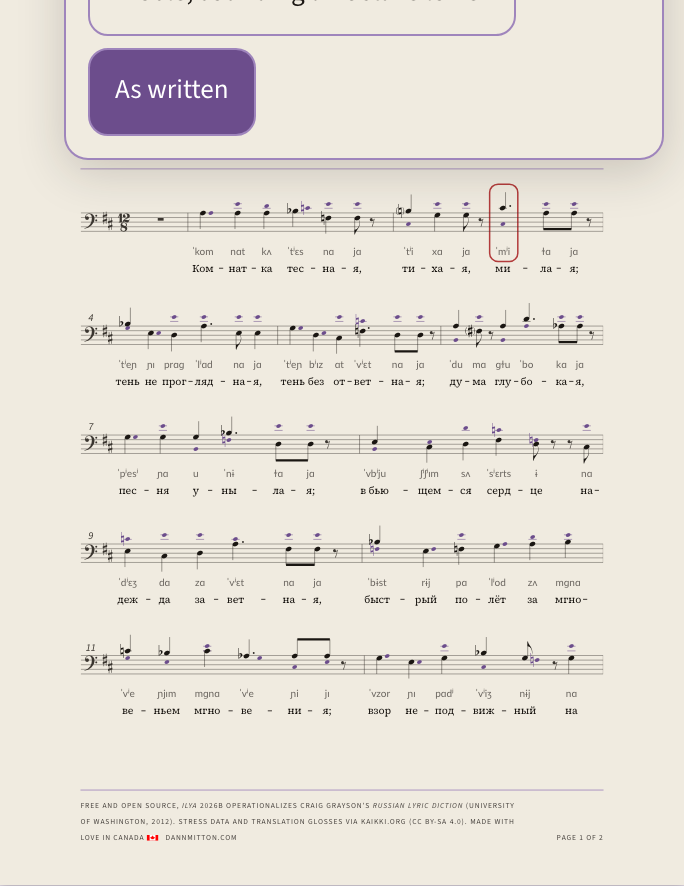
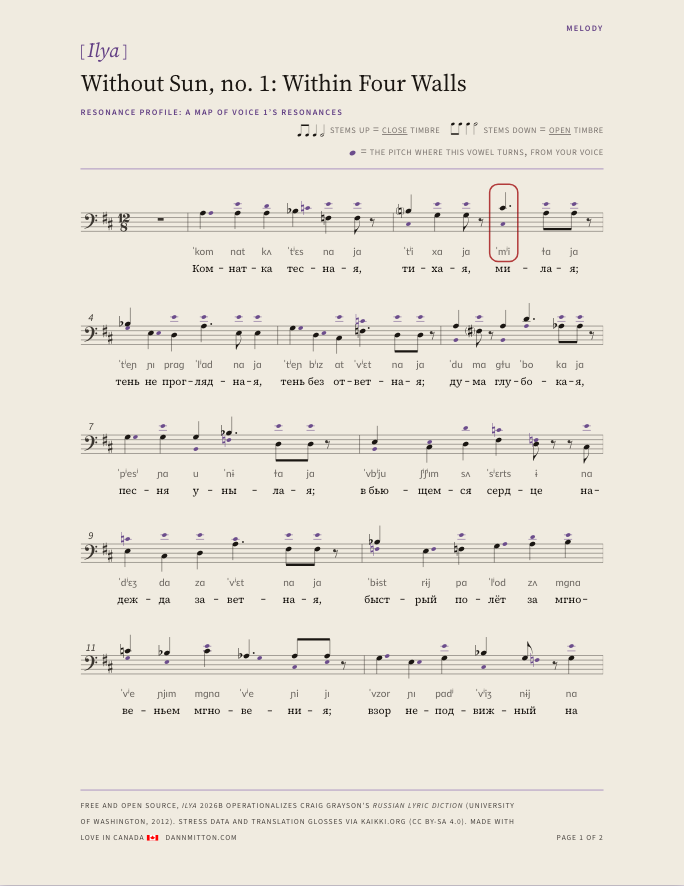
Lane 80: review amendments (report corrections, retaken and added pictures, full Playwright run)
Report: 16 control jobs, the forty-page text's fifth line and its mechanism, the
credit sentence re-break and its typography, ten items in section 10, fifteen
files carrying a fixture name. Pictures: MELODY page 1 and 2 retaken with the
"Voice line as written" chip dismissed (before from commit A's tree), Tchaikovsky
INSIGHTS pages 2 and 3 and one French page added. Both Playwright projects run in
full; seven failures listed with file and line and checked against commit A.

Changed region(s): [[0.0921, 0.0, 0.9211, 0.1828], [0.9518, 0.1524, 0.9825, 0.1828], [0.7368, 0.0, 0.7675, 0.0305]]

diff --git a/docs/sessions/report-code-lane80_r1_2026-11-21.md b/docs/sessions/report-code-lane80_r1_2026-11-21.md
@@ -45,7 +45,7 @@ Lane 79 merged. `page-config.ts` now has `BlankFrame`, `BLANK_ANCHOR`, `blankFra
 
 **INSIGHTS measures its drawn footer.** The probe read 66 (`before-1440.json`, `.page-footer` offsetHeight on every INSIGHTS page, which is what the legendless probe draws too); the drawn footer of page 1 reads 66 in the control after the change. Both numbers are 66.
 
-**The control.** The 24 jobs (two fixtures, three documents, two languages, plus the Richter text and a forty-page text, each in both languages) were re-run on commit A's tree. `compare.py before-1440.json after-A-1440.json`: **0 differences** in page counts, first and last items per page, header and footer heights, hairline distance, window box (top, bottom, left, right), footer box, first glyph, and `.header-aside` width.
+**The control.** The **16 jobs** (two fixtures by three documents by two languages is 12, plus the Richter text and a forty-page text, each in both languages, is 4) were re-run on commit A's tree. `compare.py before-1440.json after-A-1440.json`: **0 differences** in page counts, first and last items per page, header and footer heights, hairline distance, window box (top, bottom, left, right), footer box, first glyph, and `.header-aside` width.
 
 ## 6. Commit B (`df00f148`): the moves
 
@@ -63,11 +63,13 @@ Lane 79 merged. `page-config.ts` now has `BlankFrame`, `BLANK_ANCHOR`, `blankFra
 | MELODY pages 2 and 3 | top 93, bottom 920 | top 89, bottom 926 |
 | TEXT, a plain page (Sunless p1) | bottom 920 | bottom 926 |
 | TEXT, Tchaikovsky (footer reserve 90 from the whole document's legend) | bottom 910 on all 3 pages | bottom 902 on all 3 pages |
-| TEXT, forty typed lines of wrapped text | 40 pages | 33 pages (the extra 6 px lets a fifth row onto a page); the last page holds line 159 |
+| TEXT, 160 typed lines, each of which wraps to two rows | 40 pages of 4 lines (8 rows) | 33 pages: pages 2 onward hold a fifth **line** (10 rows), not a fifth row. Mechanism: the window grows 6 px at the bottom (920 to 926, from the 80 px floor and the 8 px gap going to the measured 66 and 16); five lines of two rows need 10 rows, and the review's reading is that the old pages sat 0.16 px short of fitting them (I did not re-derive the 0.16). The last page holds line 159 |
 | INSIGHTS, pages 2 and later | content ends at, e.g., Sunless EN p2 839, p3 815 | 895 and 759; **page counts unchanged** (3, 4, 6, 6); first and last blocks per page changed on Sunless FR p3/p4, Tchaikovsky EN p2/p3, Tchaikovsky FR p4/p5 |
 | Richter page: divider from the sheet's bottom | 133 | **114** |
 | Richter page: footer height, credit-row lines | 109, 4 lines | 111, 3 lines |
 | Richter page: window bottom | 891 | 881 |
+| **Every page of every document, both languages: the credit sentence under the divider re-breaks** | breaks at the old width | `.pagination-cell`'s `min-width: 74px` narrows the credit column (`1fr` beside it) by about 18 px in English (cell 56.0 to 74) and about 12 in French (cell 62.3 to 74), so the sentence breaks at different words on every page, still three lines. Nothing said in either language changes. |
+| Richter credit, typography | small caps, in the row under the divider | upright sentence case, in the band above it (`.broad-legend`'s type, as ruled) |
 | Every page of every document, both languages | divider 114 (133 on a Richter page) | **114 on all 105 pages read, credit row 3 lines** |
 
 Page counts of the two score fixtures are the same in all three documents before and after. MELODY's first and last system per page are the same bars before and after (`pages-without-gaps` and `markup-pages-lose-no-bars` pass).
@@ -76,14 +78,20 @@ Page counts of the two score fixtures are the same in all three documents before
 
 ## 7. Pictures (`report-code-lane80_r1_2026-11-21/pic-{before,after}-*.png`, English, at 390 and 1024; the sheet is 816 px in both, scaled)
 
-`before` is commit A's tree (visually identical to the base, per the control). **The two Richter "before" pictures were retaken after commit B from commit A's tree**, extracted with `git archive 6db53262` into the scratchpad and served on port 5180 with its own Vite cache directory (not the live `node_modules/.vite`), then stopped; the live server on 5173 answers 200. Port 5174 was in use by a process I did not start and I left it alone. No other picture was retaken.
+`before` is commit A's tree (visually identical to the base, per the control). Retakes were made from commit A's tree extracted with `git archive 6db53262` into the scratchpad and served on port 5180 with its own Vite cache directory (not the live `node_modules/.vite`), then stopped; the live server on 5173 answers 200. Port 5174 was in use by a process I did not start and I left it alone.
 
-- `text-richter` p1: the credit leaves the row under the divider for the band above it; divider 133 to 114 (the row is three lines). Looked at the 1024 pair.
+**Retaken.** (1) After commit B: the two Richter "before" pictures, from commit A's tree. (2) After the as-built review: `pic-{before,after}-melody-sunless-p1-{390,1024}.png`, with the "Voice line as written" chip dismissed (Escape; `ClefControls.svelte` says it recedes on Escape), because the chip floated over MELODY's title block in the first set. **p2 of the same two loads was retaken with them** (`pic-{before,after}-melody-sunless-p2-*`), since a load yields both pages; it was not asked for. I looked at `pic-after-melody-sunless-p1-1024.png`: the title block is clear and the chip is gone. I did not look at the other three of the four.
+
+**Added** (review amendment 3): Tchaikovsky INSIGHTS, English, pages 2 and 3 (`pic-{before,after}-insights-tchaikovsky-p{2,3}-{390,1024}.png`), and one French page, page 4 (`pic-{before,after}-insights-tchaikovsky-fr-p4-{390,1024}.png`), the page whose blocks changed in the control.
+
+One-line captions (measured numbers from `compare.py`; picture-read where stated):
+- `text-richter` p1: the credit leaves the row under the divider for the band above it, in upright sentence case instead of small caps; divider 133 to 114; the row is three lines. Looked at the 1024 pair.
 - `melody-sunless` p1: window 220 to 218 at the top, 920 to 926 at the bottom. p2: 93 to 89 at the top, 920 to 926 at the bottom.
 - `text-sunless` p1: window bottom 920 to 926. `text-tchaikovsky` p1 and p2: window bottom 910 to 902.
 - `insights-sunless` p1: no change to page 1's window; later pages re-flow (table above).
+- **`insights-tchaikovsky` EN p2 (looked at the 1024 pair): before, page 2 ends with the m. 51 comment whole and the content ends at y 853.9 (DOM, 1440 run), leaving room above the footer. After, the content ends at y 904.9, nearer the footer's 16 px clearance, and the page ends with the heading "m. 78 · C♯4 · [u]" and ONE line of that comment's text, "This [u] on C♯4 sits just under your secondo passaggio and above the first resonance of"; the rest of the comment is on page 3.** That is the "comment newly cut across the break". Whether a label and one line is an acceptable last thing on a page is Dann's call; `paginate.ts` allows a cut that leaves two line boxes above it (the label counts as one), and I changed no rule. Not looked at: the page 3 pair, the French page, and the 390 pairs. The DOM shows the same page counts (6) before and after.
 - The Richter case is a typed text ("sanguis atque caulis", plus two Russian lines), because neither fixture contains one.
-- I looked at the Richter pair only. The others are described from measurements, not seen. Where inside MELODY's window each system moved (the brief's "page 1's first system moves by 2 px") I did **not** measure: no PNG reader was available (Pillow in this Python fails to load). NOT ESTABLISHED; instrument: a per-system `getBoundingClientRect` run on both trees.
+- Where inside MELODY's window each system moved (the brief's "page 1's first system moves by 2 px") I did **not** measure: no PNG reader was available (Pillow in this Python fails to load). NOT ESTABLISHED; instrument: a per-system `getBoundingClientRect` run on both trees.
 
 ## 8. Done-when
 
@@ -92,6 +100,16 @@ Page counts of the two score fixtures are the same in all three documents before
 - **The eight gates, after commit B:** 1 `test:phonology` 462 passed (462); 2 `test:dictionary` 248 passed (248); 3 `@ilya/web check` 0 errors and 12 warnings in 5 files; 4 `@ilya/web test` **6801 passed | 1 skipped (6802)** (lane 79's final: 6795 | 1 (6796); six added); 5 `score-parser test` 904 passed | 5 skipped (909); 6 `test:blurb` 178; 7 `test:integration` 159; 8 `ratchets: OK.` with two ceilings lowered.
 - **Gate 4: what was added or changed, and what each protected.** Added: `insights/insights-geometry.test.ts`, four tests (no riders is plain `paginate`; a closed summary and its gap move block 1 to the next page; a rider that fits is not charged to a page it does not land on; a rider rides with the part that ends its block). `blank-states.test.ts`: "every pane takes its window from `pageFrame` and none writes the margins as a number" (commit A); "none of the retired window constants appears in any page component" (the brief's named pins: `TITLE_HEADER_GAP`, `CLEAR`, `HEADER_HEIGHTS.`, `FOOTER_MAX_HEIGHT`, `GAP +`, `left: 96px`, `right: 96px`, `top: 48px`, `bottom: 48px`, with comments stripped and `GAP +` matched whole-word so `LEGEND_GAP +` in `TitleHeader` does not trip it). Changed, by design: lane 79's "TITLE_HEADER_GAP is still 18" now says it is gone and `firstFrame` is `pageFrame(headerHeight, footerReserve)`; its "80 px floor and GAP stay in Paper" now pins `footerMeasured || FOOTER_FALLBACK` and `frameOf(0).bottom`; its `has no floor` test reads `pageFrame` in place of the deleted `GAP`; `one-head-one-foot.test.ts:68` (**the brief said this line holds; the addendum's decision to measure INSIGHTS' drawn footer made it fail by design**) now pins no `footProbe` and `onheightchange={n === 0 ? (h) => (footHeight = h) : undefined}`; `page-fit.test.ts`: `windowFor` is `pageFrame`, the 80 floor case becomes the measured 66, expected windows 711 and 735 (were 719 and 729), gaps 23 and 26 (were 24 and 26), A4 778; "Paper reserves ... floored at the old constant" now pins no floor. `page-fit.test.ts:349-354`, the measure, slice, measure guard (no real TEXT footer reports its height), is untouched and still passes.
 - **Comments rewritten:** `page-config.ts` (the header heights say what was measured and when; `HEADER_GAP` names the other side), `page-fit.ts` (the 8 px `GAP` comment: the 16 covers the dashed box, "a reason, not a prohibition"), `Paper.svelte` (why TEXT keeps its whole-document footer probe, beside it), `MarkupPane.svelte` (geometry, the 18, the page-1 window), `InsightsPane.svelte` (the clear space and the riders), `RunningHeader.svelte`'s "reserves a fixed head height" line (rewritten after the gates ran; a comment only).
+
+- **Both Playwright projects in full (review amendment 5), on the tip of the lane (two runs, no test or source line changed to make any pass).** Chromium: **312 passed, 3 failed** (39.3 min). Phone: **66 passed, 4 failed, 1 skipped** (8.0 min). Every failure, with its file and line, what it said, and what it did on **commit A's tree** (served from a `git archive` copy on port 5180, with a scratch `playwright.config.ts` and storage state pointed at it, the failing files only):
+  1. `e2e/repertoire-recedes.test.ts:27` (chromium): "strict mode violation: `getByRole('button', { name: /^Input$/i })` resolved to 2 elements", the band's INPUT toggle and the blank state's INPUT link. **Fails the same way on commit A's tree.** Cause is the blank state's INPUT link (lane 78 and 79), not this lane's geometry.
+  2. `e2e-phone/input-views.test.ts:146` (phone): expected the line "Your score's sung words are in Lyrics", received "The words as sung, as the score sets them. Coloured words differ from the poem: ..." (a copy change). **Fails the same way on commit A's tree.**
+  3. `e2e-phone/phrase-ends.test.ts:38` (phone): `[data-word-index="0-77"]` not found. **Fails the same way on commit A's tree.**
+  4. `e2e-phone/relining.test.ts:74` ("y.", phone): "the drop leaves one line", expected 1, received 10. **Fails the same way on commit A's tree.**
+  5. `e2e-phone/relining.test.ts:108` ("bb.", phone): expected line lengths `[7,7,7,7,7,4]`, received `[4,1,2,7,7,7,7,4]`. **Fails the same way on commit A's tree.**
+  6. `e2e/heic-offline.test.ts:43` (chromium): "listen EADDRNOTAVAIL: address not available 127.0.0.2:4173": the test binds a second loopback address this Mac does not have. Fails in 0 ms, before any page loads. A re-run on the lane tree fails identically. I did not run it on commit A's tree beyond the first batch, where it did not report; it does not load a page, so it cannot depend on the geometry.
+  7. `e2e/heic-fallback.test.ts:19` (chromium): "Execution context was destroyed, most likely because of a navigation" at 693 ms in the full run. **Passed on commit A's tree and passed on the lane tree when re-run on its own (283 ms).** A one-off in the full run; I did not find the navigation that destroyed the context. NOT ESTABLISHED why it failed once.
+  Of the seven, none is in a file this lane touched, none reads a window or footer box, and the five that load pages fail identically on commit A's tree except number 7, which passed there. That is evidence these are not caused by the lane, not a proof for number 7.
 
 ## 9. INSIGHTS, swept (addendum item 1), and divergences found
 
@@ -109,6 +127,6 @@ Changed (commits A and B): the sheet (`pageSize`), the 96 literals, `CLEAR`, and
 5. **`chargeRiders` has six passes and then keeps the last cut.** It settles on the cases tried; I did not look for one that does not.
 6. **The first-paint jump (lane 79, section 5) and the pre-measure pass of TEXT's new 105 fallback.** Not re-probed (`jump.mjs`).
 7. **A one-page score's MELODY page 2 (it draws no running header).** The measured `runningHeight` stays 0 and the 25 fallback stands; I did not draw a page that shows it.
-8. **Not run:** the full 372-test Playwright suite, the phone project's other tests, and lane 79's phone `one-page-frame` test; Safari and a real iPhone.
-9. **The name "Dann" in older fixtures.** I changed `pages-without-gaps.test.ts` and wrote none. Still carrying `name: 'Dann'` and not changed (they are outside this lane's files): `e2e/voice-stations.test.ts`, `insights-no-score.test.ts`, `calibrate-new.test.ts`, `insights-links.test.ts`, `voice-links.test.ts`, `melody-no-score-count.test.ts`, `voice-pane.test.ts`, `insights-page.test.ts`, `borrowing-with-score.test.ts`, and lane 79's `one-page-frame.ts`. The addendum says every fixture in the lane; these are not this lane's but the rule asks for them.
-11. **Working tree.** `docs/memory/QUEUE.md` and `STATE.md` were modified on arrival and are not mine; neither is committed. Nothing was pushed.
+8. **Not run:** Safari and a real iPhone. (The full chromium and phone projects were run after the review; section 8.)
+9. **The name "Dann" in older fixtures: fifteen files in the tree carry `name: 'Dann'`** (`grep -l "name: 'Dann'"` over `apps` and `packages`). I changed `pages-without-gaps.test.ts` and wrote none. Not changed, listed: `e2e/borrowing-with-score.test.ts`, `calibrate-new.test.ts`, `insights-links.test.ts`, `insights-no-score.test.ts`, `insights-page.test.ts`, `melody-no-score-count.test.ts`, `one-page-frame.ts` (lane 79's), `voice-links.test.ts`, `voice-pane.test.ts`, `voice-stations.test.ts`; **`e2e-phone/insights-links.test.ts`, `e2e-phone/voice-stations.test.ts`, `e2e-phone/wizard-begin.test.ts`**; and two unit tests, `src/lib/voice/takes.test.ts` and `voiceTypes.test.ts`. Eight capture and repro scripts under `docs/sessions/` carry it too (`head-foot-shots`, `insights-r2-shots`, `measure-markup-blank_2026-10-12`, `report-code-lane79_r1_2026-11-21/capture.mjs`, `row93-rekey_2026-10-13`, `rows-78-79-shots` x4). The addendum's rule is about the lane's own fixtures; these are older.
+10. **Working tree.** `docs/memory/QUEUE.md` and `STATE.md` were modified on arrival and are not mine; neither is committed. Nothing was pushed.
